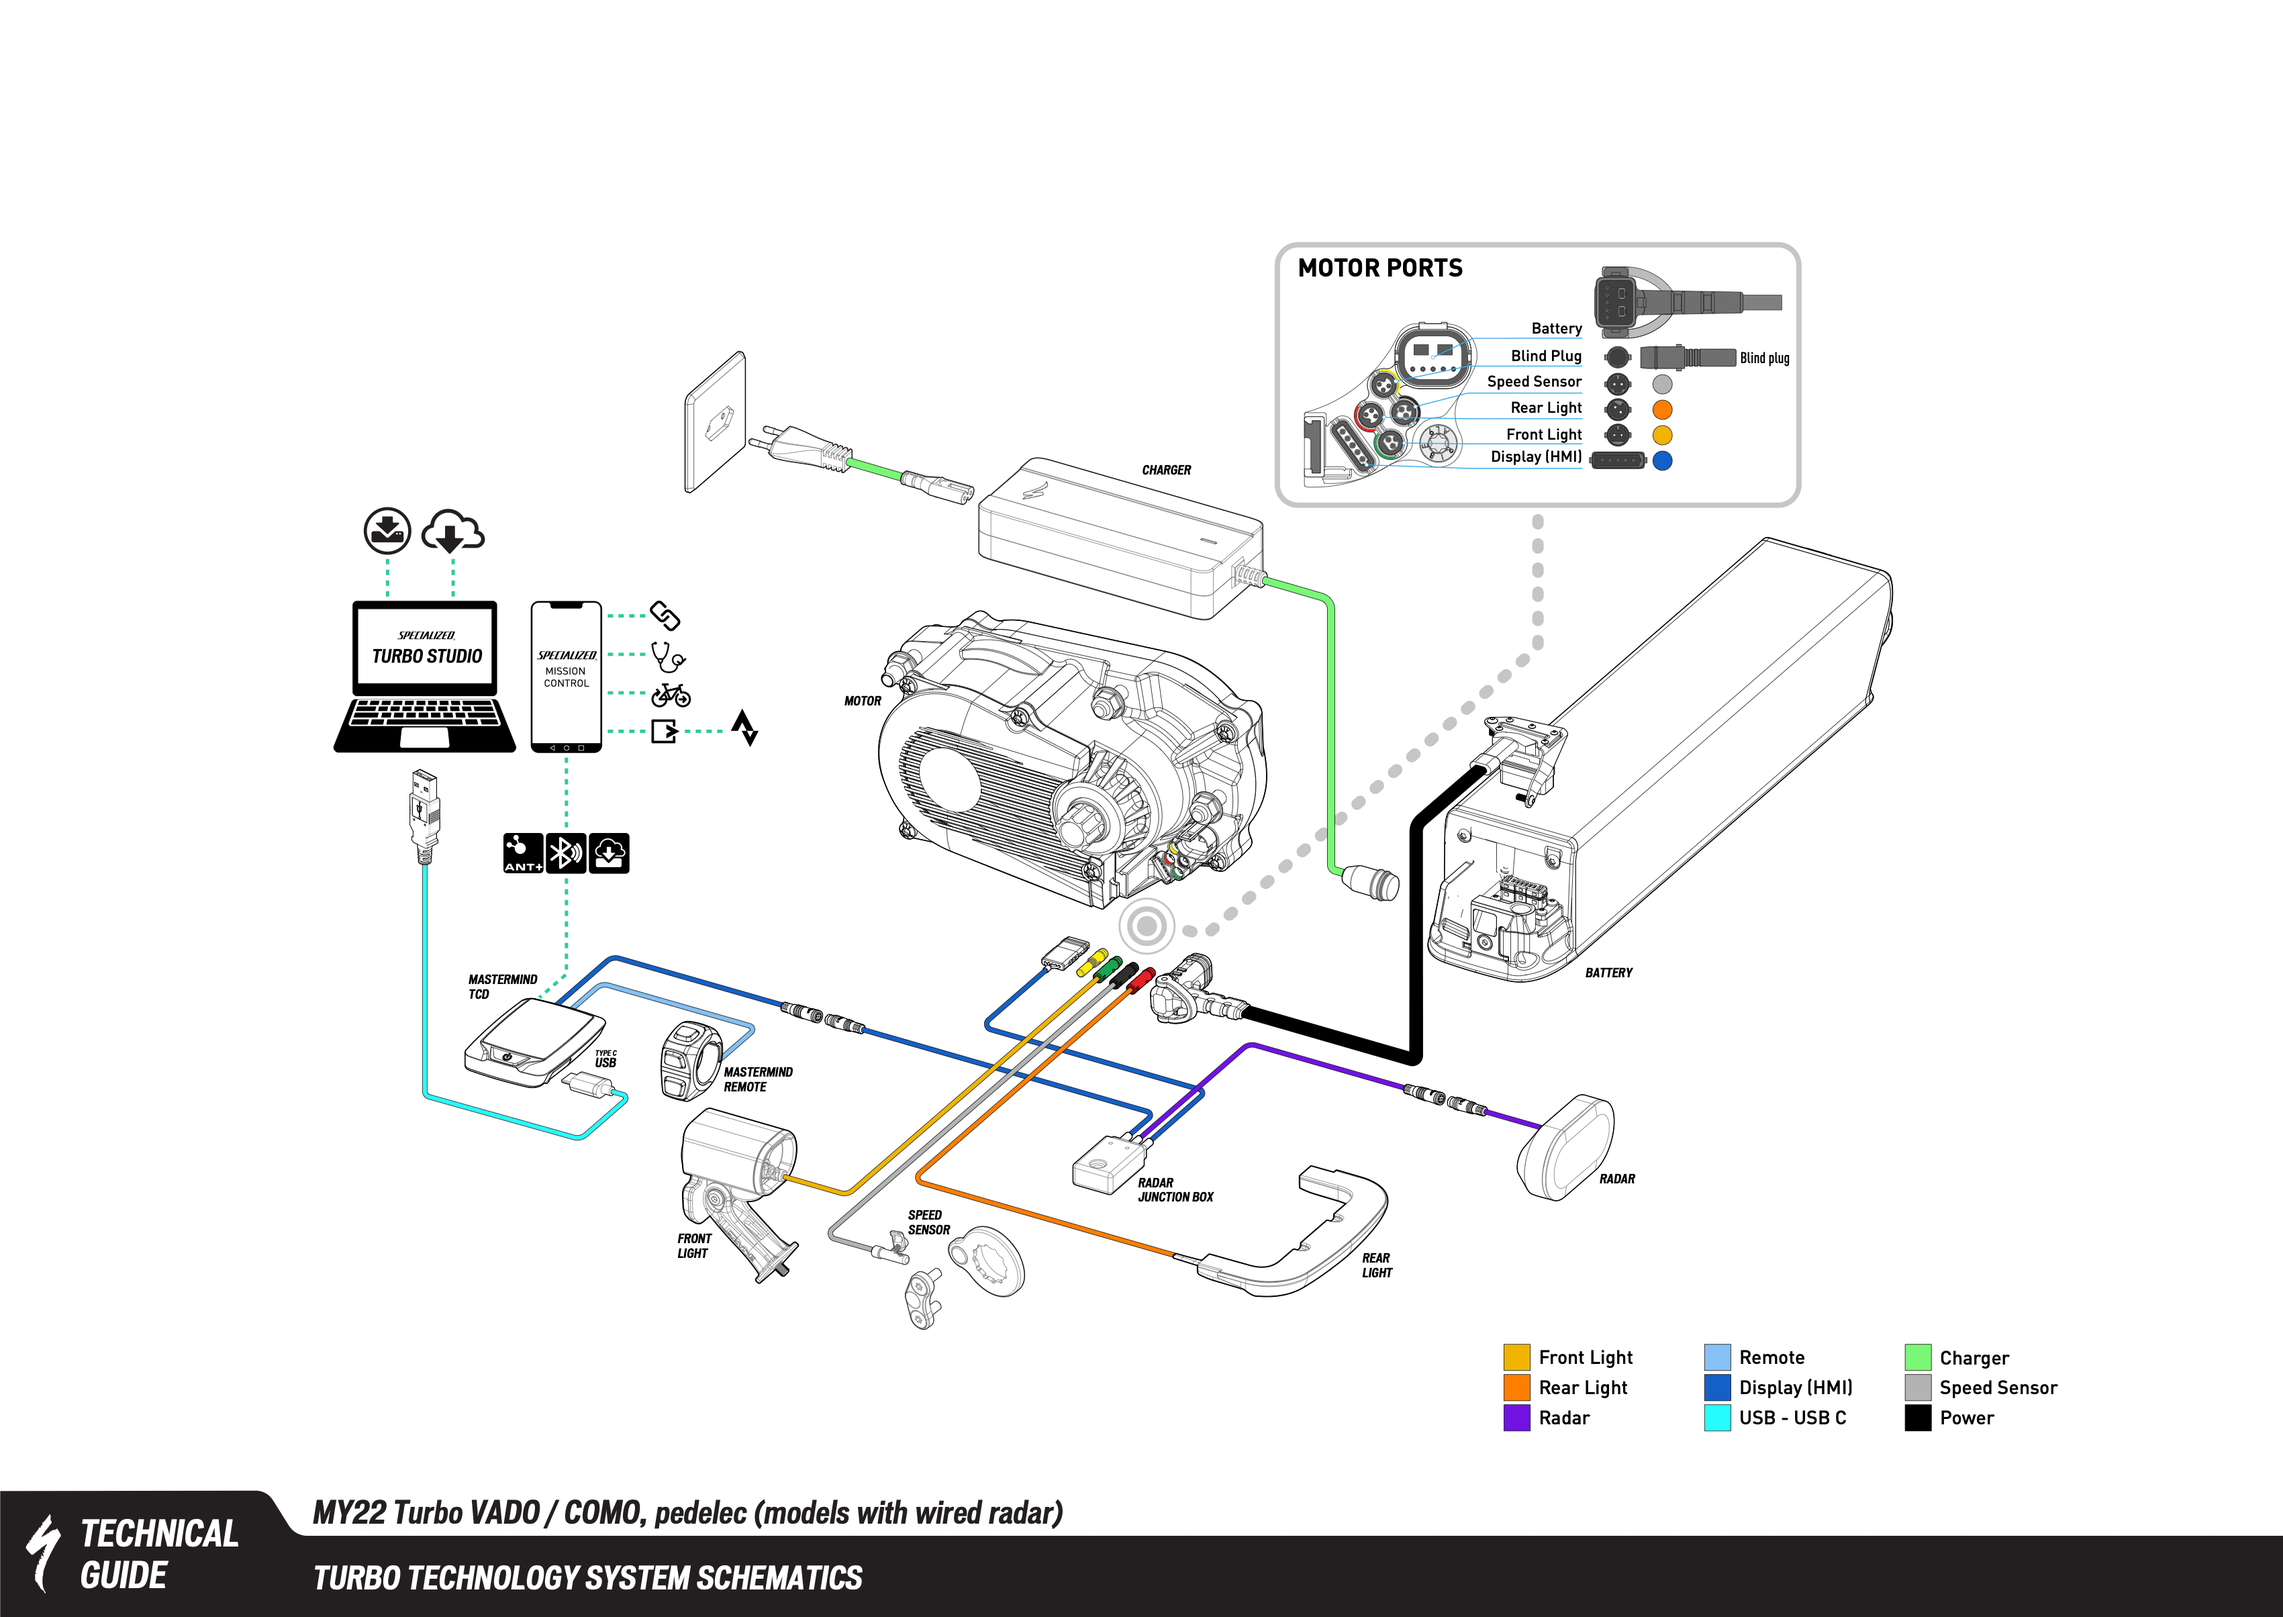
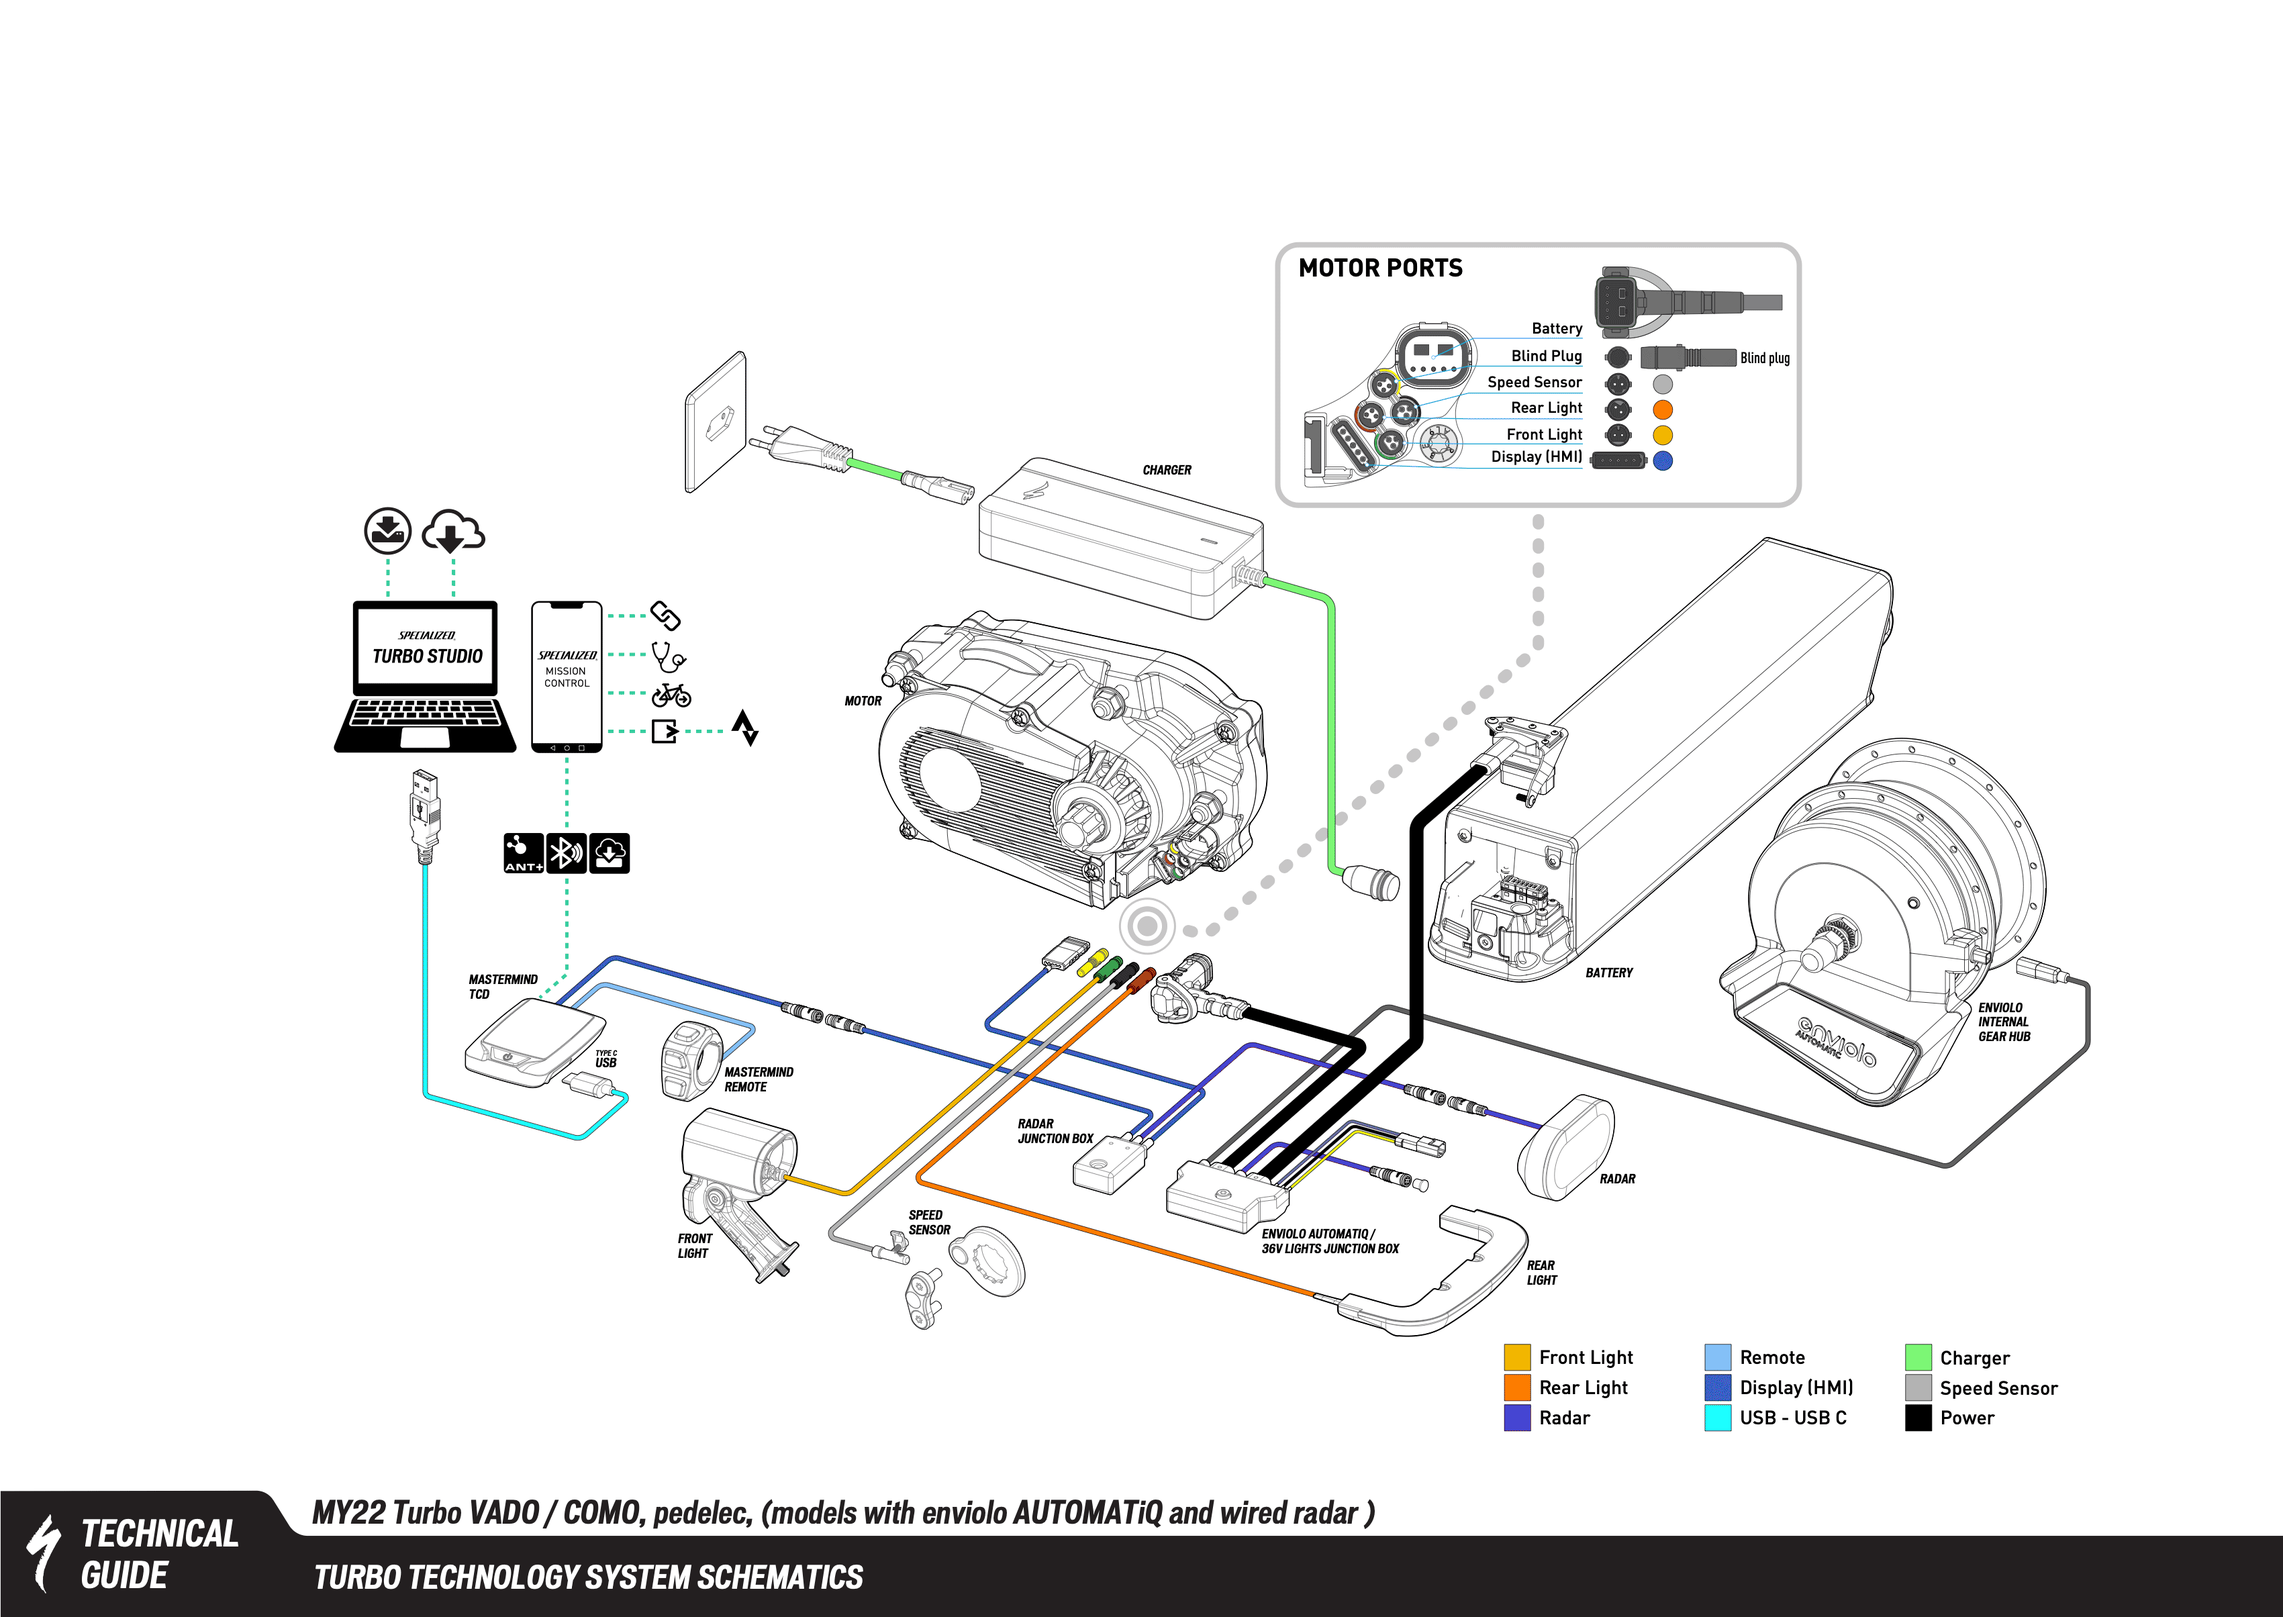
allow testing draft blogposts

diff --git a/prerender.js b/prerender.js
@@ -234,7 +234,7 @@ const files = await readdir(blogDir);
 const blogModules = (
 	await Promise.all(
 		files.map(async (file) => {
-			const match = file.match(/^(\d{4}-\d{2}-\d{2})-(.+)\.mdx$/);
+			const match = file.match(/^(?:draft-)?(\d{4}-\d{2}-\d{2})-(.+)\.mdx$/);
 			if (!match) return null;
 
 			const slug = match[2];

diff --git a/src/lib/blog.ts b/src/lib/blog.ts
@@ -18,7 +18,7 @@ export interface BlogPostMetadata {
 }
 
 export function getBlogPathInfo(path: string) {
-	const match = path.match(/\/(\d{4}-\d{2}-\d{2})-(.+)\.mdx$/);
+	const match = path.match(/\/(?:draft-)?(\d{4}-\d{2}-\d{2})-(.+)\.mdx$/);
 	if (!match) return null;
 
 	return { date: match[1], slug: match[2] };

diff --git a/src/pages/BlogList.tsx b/src/pages/BlogList.tsx
@@ -7,7 +7,7 @@ import { getBlogMetadata, type BlogModule } from "../lib/blog";
 import { getWebpPath } from "../lib/images";
 
 const blogModules = import.meta.glob<BlogModule>(
-	["../blog/*.mdx", "!../blog/draft-*.mdx"],
+	"../blog/*.mdx",
 	{ eager: true }
 );
 

diff --git a/src/main-server.ts b/src/main-server.ts
@@ -6,7 +6,7 @@ export { router } from "dreamland/router";
 export default (path: string) => render(() => renderApp(path));
 
 const blogModules = import.meta.glob<BlogModule>(
-	["./blog/*.mdx", "!./blog/draft-*.mdx"],
+	"./blog/*.mdx",
 	{ eager: true }
 );
 

diff --git a/src/App.tsx b/src/App.tsx
@@ -19,7 +19,7 @@ type AppProps = {
 
 function App(this: FC<AppProps>) {
 	const blogModules = import.meta.glob<BlogModule>(
-		["./blog/*.mdx", "!./blog/draft-*.mdx"],
+		"./blog/*.mdx",
 		{ eager: true }
 	);
 	const blogPosts = Object.entries(blogModules)
